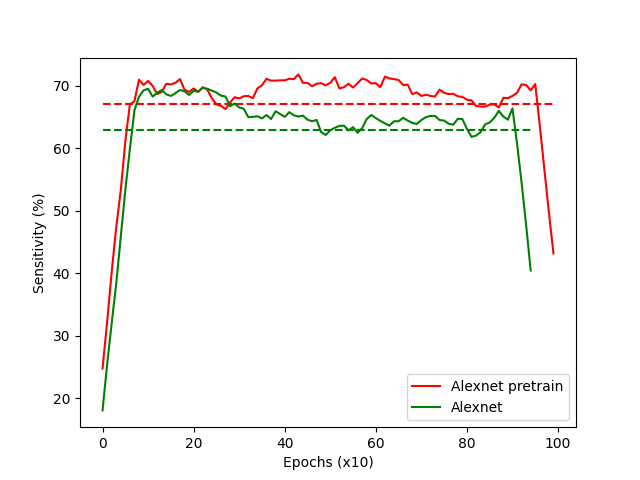
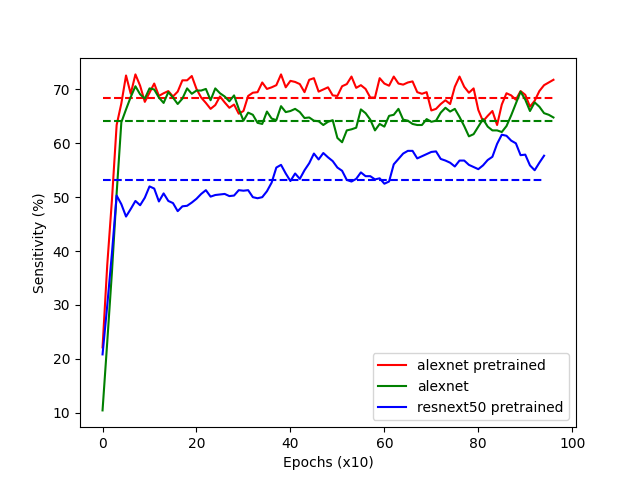
first

diff --git a/paper/plot/main.py b/paper/plot/main.py
@@ -3,7 +3,6 @@ from scipy.interpolate import interp1d
 import matplotlib.pyplot as plt
 import collections
 
-
 def movingaverage(interval, window_size):
     window= np.ones(int(window_size))/float(window_size)
     return np.convolve(interval, window, 'same')
@@ -19,32 +18,27 @@ def getPoints(fileName):
         clean.append(float(l.replace("\n", "")))  
     points   = np.array(clean).T
     x    = createList(0,len(points)-1)
-    y_av = movingaverage(points, 10)
+    y_av = movingaverage(points,5)
     return  y_av
-
 
 #####################################################################
 file_alexnet        = "/home/nick/Desktop/results/alexnet/valid.txt"
 file_alexnet_np     = "/home/nick/Desktop/results/alexnet_no_pretrain/valid.txt"
+file_resnet         = "/home/nick/Desktop/results/resnext50_32x4d/valid.txt"
 file_save           = "/home/nick/Desktop/code/2019-nCoV/paper/plot/plot.png"
 #####################################################################
-alexnet_pretrain    = getPoints(file_alexnet)
-alexnet_no_pretrain = getPoints(file_alexnet_np) 
-
-
-print(alexnet_pretrain)
+alexnet_pretrain    = getPoints(file_alexnet)[:-3]
+alexnet_no_pretrain = getPoints(file_alexnet_np)[:-3] 
+alexnet_no_resnet   = getPoints(file_resnet)[:-3] 
 #####################################################################
 fig            = plt.figure()
 ax             = fig.add_subplot(111)
-#ax.set_title   ("Validset sensitivity")
-ax.plot        (alexnet_pretrain, '-',  label="Alexnet pretrain",color='r')
-ax.plot([np.mean(alexnet_pretrain)]*len(alexnet_pretrain), linestyle='--', color='r')
-
-
-ax.plot        (alexnet_no_pretrain, '-',  label="Alexnet",color='g')
+ax.plot        (alexnet_pretrain, '-',  label="alexnet pretrained",color='r')
+ax.plot        ([np.mean(alexnet_pretrain)]*len(alexnet_pretrain), linestyle='--', color='r')
+ax.plot        (alexnet_no_pretrain, '-',  label="alexnet",color='g')
 ax.plot        ([np.mean(alexnet_no_pretrain)]*len(alexnet_no_pretrain), linestyle='--', color='g')
-
-
+ax.plot        (alexnet_no_resnet, '-',  label="resnext50 pretrained",color='b')
+ax.plot        ([np.mean(alexnet_no_resnet)]*len(alexnet_no_resnet), linestyle='--', color='b')
 ax.set_ylabel  ('Sensitivity (%)')
 ax.set_xlabel  ("Epochs (x10)")
 ax.legend      (loc='lower right')

diff --git a/train.py b/train.py
@@ -30,7 +30,7 @@ if __name__ == '__main__':
     #gflags.DEFINE_string ("test_path", "/home/nick/Desktop/dataset/dataset-nConV-2019/test",   "path of testing folder to be set")
     #gflags.DEFINE_string ("valid_path", "/home/nick/Desktop/dataset/dataset-nConV-2019/valid", "path of testing folder to be set")
     ############################################
-    gflags.DEFINE_string ("save_folder", "/vol/biomedic2/ns87/conv-19-save/vgg13", 'path of testing folder to be set!')
+    gflags.DEFINE_string ("save_folder", "/vol/biomedic2/ns87/conv-19-save/resnext50_32x4d_2", 'path of testing folder to be set!')
     #gflags.DEFINE_string ("save_folder", "/home/nick/Desktop/results/shufflenet_v2_x1_0", 'path of testing folder to be set!')
     ############################################
     gflags.DEFINE_integer("workers", 4, "number of dataLoader workers")
@@ -44,6 +44,8 @@ if __name__ == '__main__':
     gflags.DEFINE_integer("max_iter_valid", 200, "number of iteration for the valid stage")
     gflags.DEFINE_integer("nepochs", 1000, "number of epoch")
     gflags.DEFINE_string ("gpu_ids", "0", "gpu ids used to train")
+    gflags.DEFINE_bool   ("retrain", True, "use cuda")
+    gflags.DEFINE_string ("retrain_path", "/vol/biomedic2/ns87/conv-19-save/resnext50_32x4d/save_data/models/model_98.pt", 'path retrain')
     Flags(sys.argv)
     #############################################
     trainSet    = Dataset(Flags.train_path,Flags.test_path,Flags.valid_path,Flags.max_iter_train,"train")
@@ -53,7 +55,11 @@ if __name__ == '__main__':
     validLoader = DataLoader(validSet, batch_size=Flags.batch_size, shuffle=False, num_workers=Flags.workers)
     #############################################
     loss_MSE    = torch.nn.MSELoss()
-    net         = SiameseNet()
+    if Flags.retrain:
+        print("\n ... Retrain model")
+        net     = loadModel(Flags.retrain_path)
+    else:
+        net     = SiameseNet()
     #############################################
     save_path   = os.path.join(Flags.save_folder,"save_data")
     model_path  = os.path.join(save_path,"models")

diff --git a/model.py b/model.py
@@ -50,8 +50,7 @@ class SmallVGG(nn.Module):
         return self.svgg(x)
 
 '''
-
-
+'''
 class SiameseNet(nn.Module):
     def __init__(self):
         super(SiameseNet, self).__init__()
@@ -72,9 +71,9 @@ class SiameseNet(nn.Module):
         dis  = torch.abs(cnn1 - cnn2)
         out  = self.out(dis)
         return out
-
-
 '''
+
+
 # Resnet
 class SiameseNet(nn.Module):
     def __init__(self):
@@ -97,4 +96,3 @@ class SiameseNet(nn.Module):
         dis  = torch.abs(cnn1 - cnn2)
         out  = self.out(dis)
         return out
-'''

diff --git a/utils.py b/utils.py
@@ -3,6 +3,7 @@ from   collections import OrderedDict
 import matplotlib.pyplot as plt
 import os
 import shutil
+from   model import SiameseNet
 
 
 
@@ -35,6 +36,14 @@ def makeFolder(dirName):
     else:
         shutil.rmtree(dirName)
         os.mkdir(dirName)
+
+
+def loadModel(path):
+    model = SiameseNet()
+    model.load_state_dict(torch.load(path,map_location=torch.device('cuda')))
+    model.cuda()
+    model.eval()
+    return model
 
 def plot_sensitivity(list_valid,pathSave):
     fig            = plt.figure()
